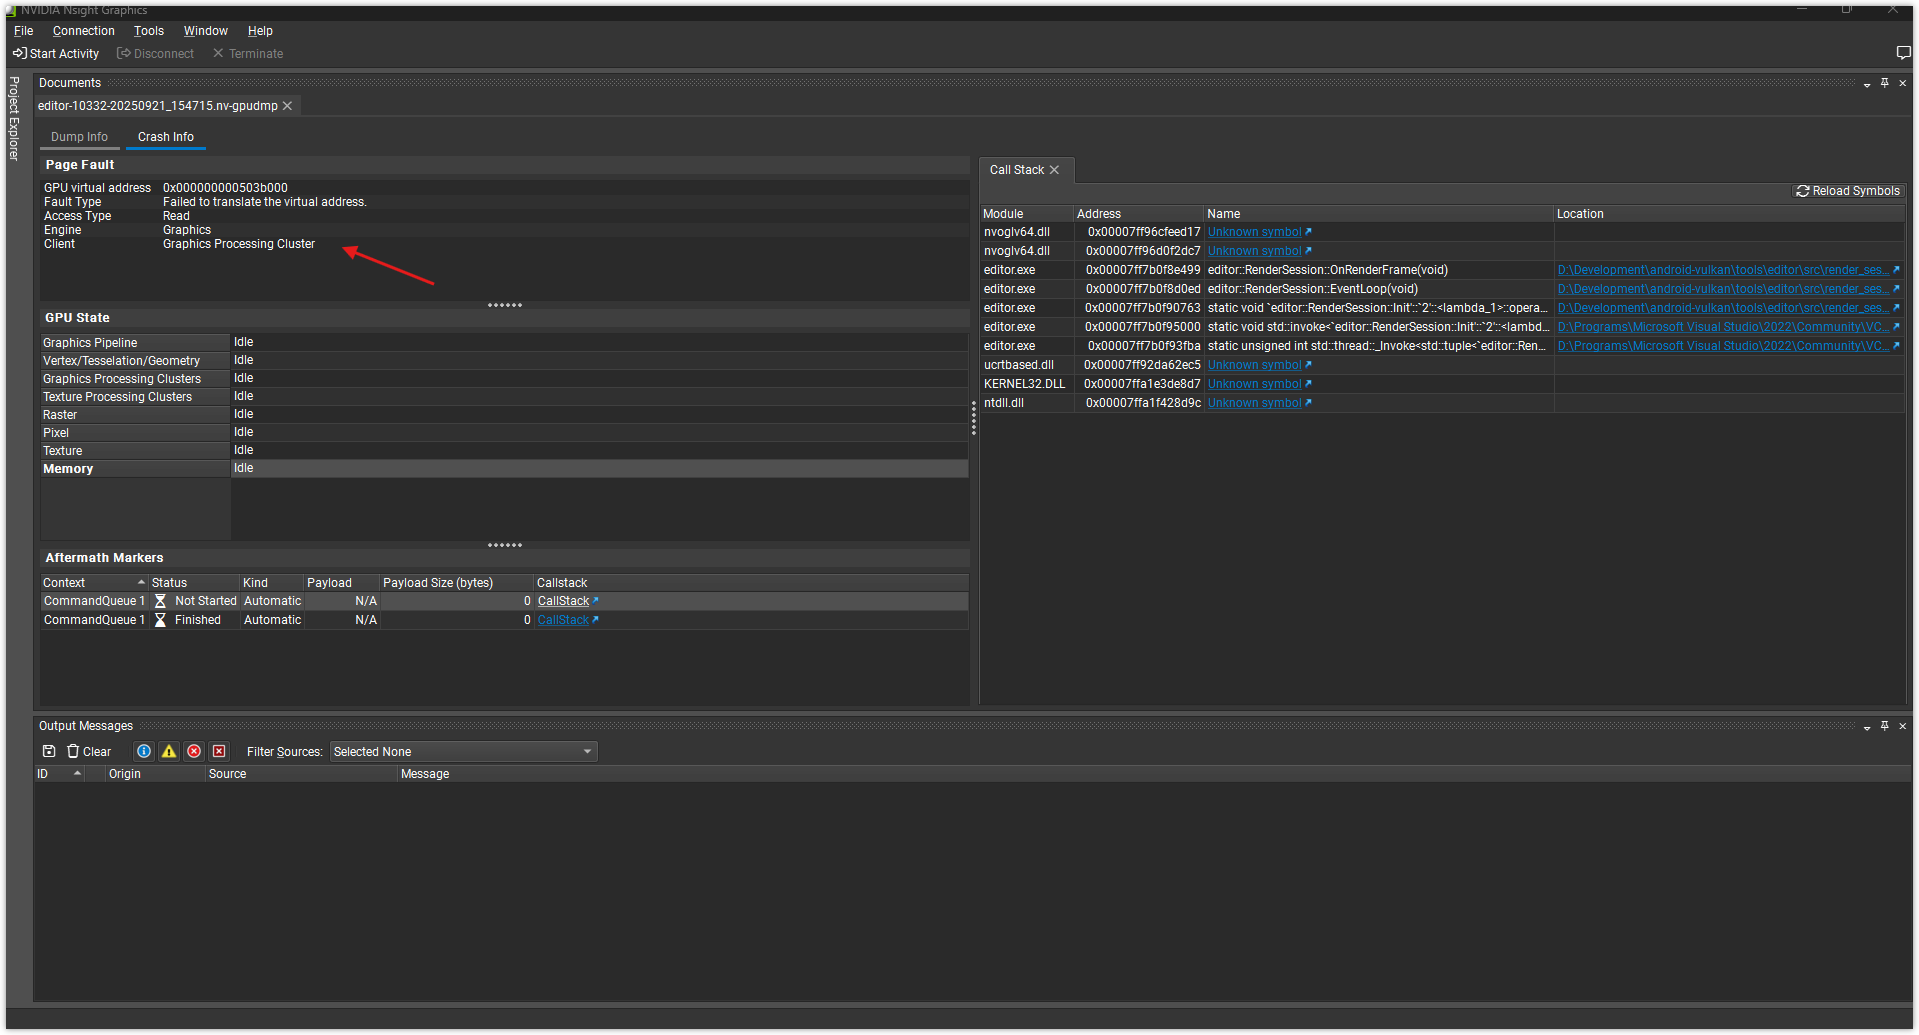
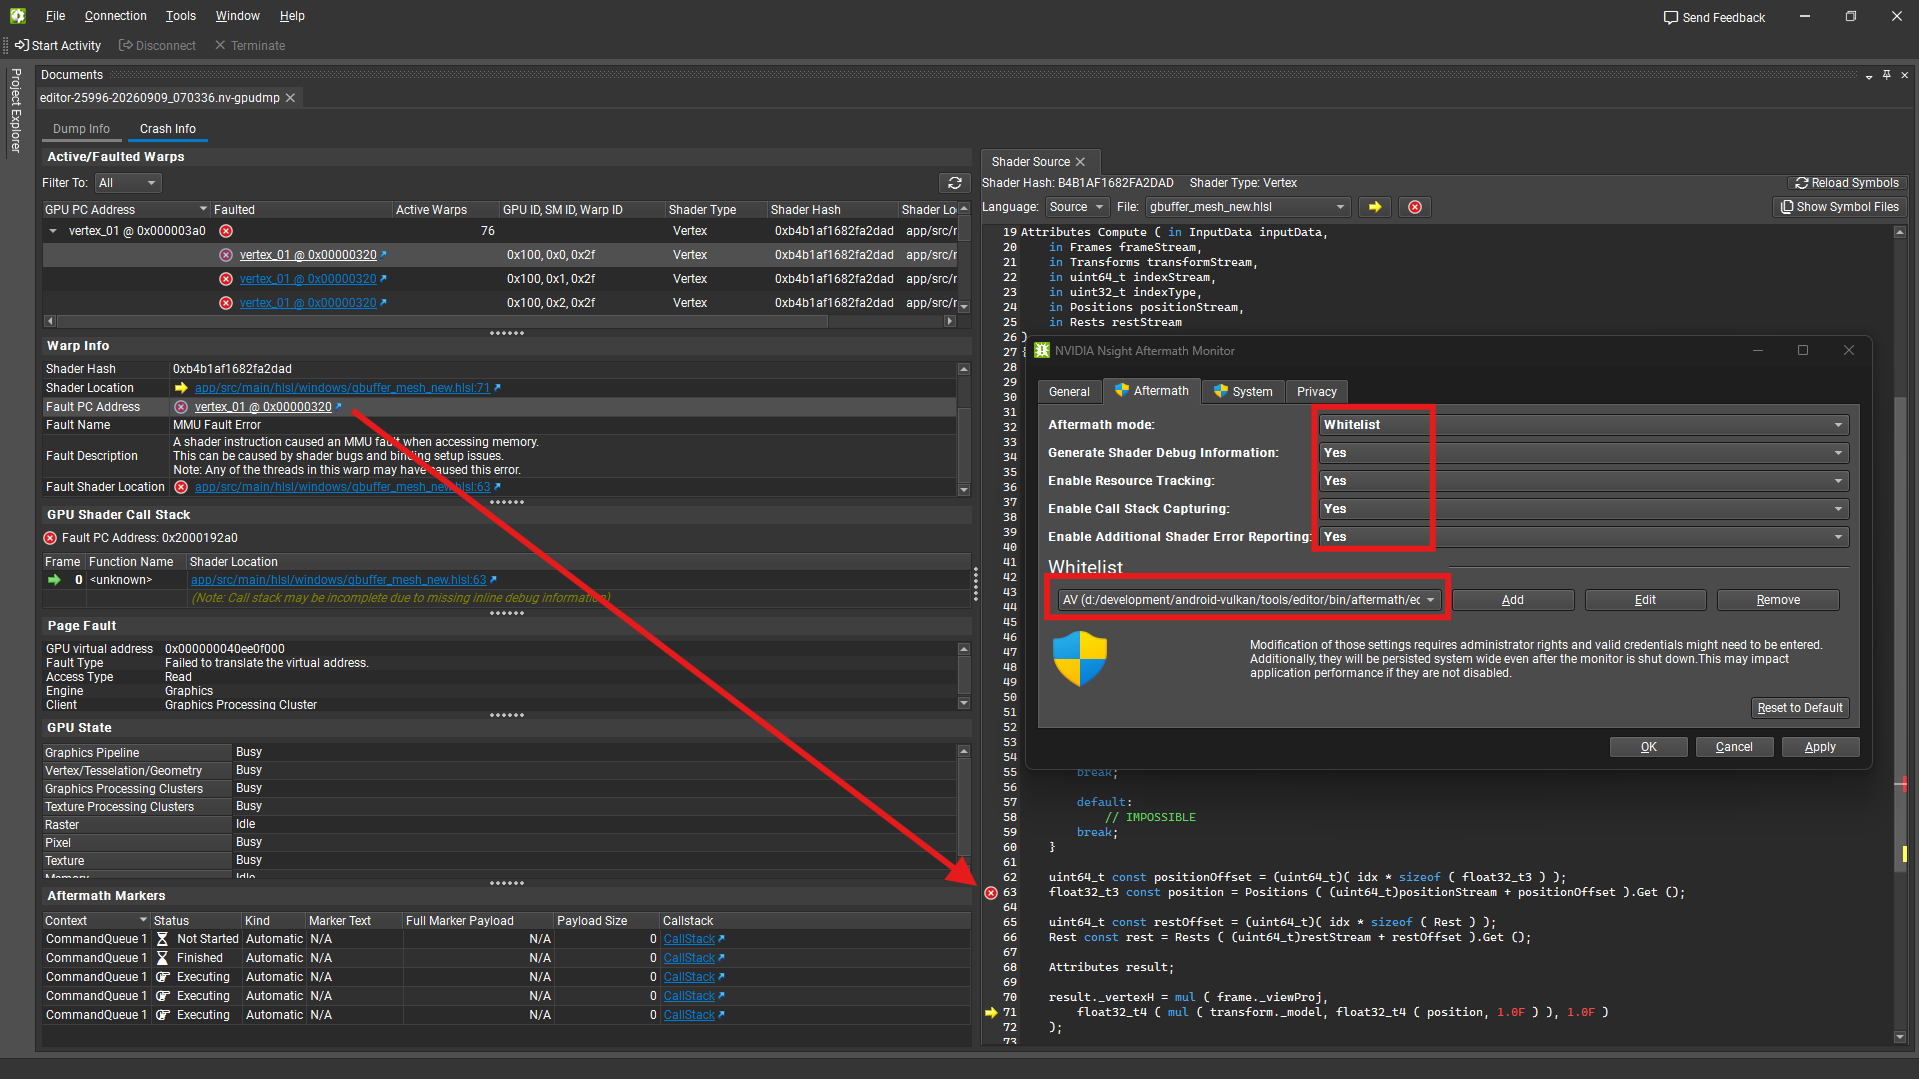
Documentation: - better image for Aftermath - DXC issue added
core:
- Windows: proper Aftermath extensions
- Windows: vk::BufferPointer transitioning (stage 1)

Tools:
- preprocess shader tool

Changed region(s): [[0.0, 0.0, 1.0, 1.0], [0.7994, 0.1855, 0.8301, 0.2164], [0.3382, 0.5874, 0.3689, 0.6184]]

diff --git a/app/src/main/cpp/sources/platform/windows/renderer.cpp b/app/src/main/cpp/sources/platform/windows/renderer.cpp
@@ -567,11 +567,11 @@ std::span<char const* const> Renderer::GetDeviceExtensions () noexcept
     constexpr static char const* const extensions[] =
     {
 
-#if defined ( AV_ENABLE_NSIGHT ) || defined ( AV_ENABLE_RENDERDOC )
+#if defined ( AV_ENABLE_NSIGHT ) || defined ( AV_ENABLE_AFTERMATH ) || defined ( AV_ENABLE_RENDERDOC )
 
         VK_KHR_SHADER_NON_SEMANTIC_INFO_EXTENSION_NAME,
 
-#endif // AV_ENABLE_NSIGHT || AV_ENABLE_RENDERDOC
+#endif // AV_ENABLE_NSIGHT || AV_ENABLE_AFTERMATH || AV_ENABLE_RENDERDOC
 
         VK_EXT_DESCRIPTOR_BUFFER_EXTENSION_NAME,
         VK_EXT_MUTABLE_DESCRIPTOR_TYPE_EXTENSION_NAME,
@@ -778,6 +778,11 @@ bool Renderer::CheckRequiredFeatures ( std::vector<std::string> const &deviceExt
 
         AV_BITWISE ( CheckFeature ( features.textureCompressionBC, "textureCompressionBC", _initLogs ) ) &
         AV_BITWISE ( CheckFeature ( features11.multiview, "multiview", _initLogs ) ) &
+
+        // 2026/09/10 It's needed because DXC bug:
+        // https://github.com/microsoft/DirectXShaderCompiler/issues/8895
+        AV_BITWISE ( CheckFeature ( features11.storagePushConstant16, "storagePushConstant16", _initLogs ) ) &
+
         AV_BITWISE ( CheckFeature ( features12.bufferDeviceAddress, "bufferDeviceAddress", _initLogs ) ) &
 
         AV_BITWISE (
@@ -947,7 +952,11 @@ VkPhysicalDeviceFeatures2 Renderer::GetRequiredPhysicalDeviceFeatures () noexcep
         .pNext = const_cast<VkPhysicalDeviceDescriptorBufferFeaturesEXT*> ( &descriptorBufferFeatures ),
         .storageBuffer16BitAccess = VK_FALSE,
         .uniformAndStorageBuffer16BitAccess = VK_FALSE,
-        .storagePushConstant16 = VK_FALSE,
+
+        // 2026/09/10 It's needed because DXC bug:
+        // https://github.com/microsoft/DirectXShaderCompiler/issues/8895
+        .storagePushConstant16 = VK_TRUE,
+
         .storageInputOutput16 = VK_FALSE,
         .multiview = VK_TRUE,
         .multiviewGeometryShader = VK_FALSE,

diff --git a/app/src/main/cpp/sources/platform/windows/pbr/opaque_with_id_program.cpp b/app/src/main/cpp/sources/platform/windows/pbr/opaque_with_id_program.cpp
@@ -17,8 +17,12 @@ constexpr size_t STAGE_COUNT = 2U;
 //----------------------------------------------------------------------------------------------------------------------
 
 OpaqueWithIDProgram::OpaqueWithIDProgram () noexcept:
-    GBufferProgram ( "shaders/windows/gbuffer_mesh_with_id.vs.spv",
-        "shaders/windows/opaque_with_id.ps.spv",
+    //GBufferProgram ( "shaders/windows/gbuffer_mesh_with_id.vs.spv",
+    //    "shaders/windows/opaque_with_id.ps.spv",
+    //    sizeof ( PushConstants )
+    //)
+    GBufferProgram ( "shaders/windows/gbuffer_mesh_with_id_new.vs.spv",
+        "shaders/windows/opaque_with_id_new.ps.spv",
         sizeof ( PushConstants )
     )
 {

diff --git a/app/src/main/cpp/sources/platform/windows/pbr/ui_pass.cpp b/app/src/main/cpp/sources/platform/windows/pbr/ui_pass.cpp
@@ -630,10 +630,10 @@ bool UIPass::Execute ( VkCommandBuffer commandBuffer, size_t commandBufferIndex 
 
     _program.Bind ( commandBuffer );
 
-    _pushConstants._bdaStream0 = _uiVertices.GetStream0Address () +
+    _pushConstants._uiVertices0 = _uiVertices.GetStream0Address () +
         static_cast<VkDeviceAddress> ( _readVertexIndex * sizeof ( UIVertexStream0 ) );
 
-    _pushConstants._bdaStream1 = _uiVertices.GetStream1Address () +
+    _pushConstants._uiVertices1 = _uiVertices.GetStream1Address () +
         static_cast<VkDeviceAddress> ( _readVertexIndex * sizeof ( UIVertexStream1 ) );
 
     _program.SetPushConstants ( commandBuffer, &_pushConstants );

diff --git a/app/src/main/cpp/sources/platform/windows/pbr/opaque_program.cpp b/app/src/main/cpp/sources/platform/windows/pbr/opaque_program.cpp
@@ -17,7 +17,8 @@ constexpr size_t STAGE_COUNT = 2U;
 //----------------------------------------------------------------------------------------------------------------------
 
 OpaqueProgram::OpaqueProgram () noexcept:
-    GBufferProgram ( "shaders/windows/gbuffer_mesh.vs.spv", "shaders/windows/opaque.ps.spv", sizeof ( PushConstants ) )
+    //GBufferProgram ( "shaders/windows/gbuffer_mesh.vs.spv", "shaders/windows/opaque.ps.spv", sizeof ( PushConstants ) )
+    GBufferProgram ( "shaders/windows/gbuffer_mesh_new.vs.spv", "shaders/windows/opaque_new.ps.spv", sizeof ( PushConstants ) )
 {
     // NOTHING
 }

diff --git a/app/src/main/cpp/include/platform/windows/pbr/ui_program.hpp b/app/src/main/cpp/include/platform/windows/pbr/ui_program.hpp
@@ -17,8 +17,8 @@ class UIProgram final : public GraphicsProgram
 
         struct PushConstants final
         {
-            VkDeviceAddress                 _bdaStream0;
-            VkDeviceAddress                 _bdaStream1;
+            VkDeviceAddress                 _uiVertices0;
+            VkDeviceAddress                 _uiVertices1;
             GXVec2                          _rotateScaleRow0;
             GXVec2                          _rotateScaleRow1;
             GXVec2                          _offset;

diff --git a/app/src/main/cpp/sources/platform/windows/pbr/ui_program.cpp b/app/src/main/cpp/sources/platform/windows/pbr/ui_program.cpp
@@ -10,7 +10,8 @@ namespace pbr {
 
 namespace {
 
-constexpr char const VERTEX_SHADER[] = "shaders/windows/ui.vs.spv";
+//constexpr char const VERTEX_SHADER[] = "shaders/windows/ui.vs.spv";
+constexpr char const VERTEX_SHADER[] = "shaders/windows/ui_new.vs.spv";
 constexpr char const CUSTOM_BRIGHTNESS_FRAGMENT_SHADER[] = "shaders/windows/ui_custom_brightness.ps.spv";
 constexpr char const DEFAULT_BRIGHTNESS_FRAGMENT_SHADER[] = "shaders/windows/ui_default_brightness.ps.spv";
 

diff --git a/app/src/main/cpp/sources/platform/windows/pbr/outline_mask_program.cpp b/app/src/main/cpp/sources/platform/windows/pbr/outline_mask_program.cpp
@@ -10,7 +10,8 @@ namespace pbr {
 
 namespace {
 
-constexpr char const VERTEX_SHADER[] = "shaders/windows/outline_mask.vs.spv";
+//constexpr char const VERTEX_SHADER[] = "shaders/windows/outline_mask.vs.spv";
+constexpr char const VERTEX_SHADER[] = "shaders/windows/outline_mask_new.vs.spv";
 constexpr char const FRAGMENT_SHADER[] = "shaders/windows/outline_mask.ps.spv";
 
 constexpr size_t COLOR_RENDER_TARGET_COUNT = 1U;

diff --git a/docs/shader-compilation.md b/docs/shader-compilation.md
@@ -175,6 +175,8 @@ Problem with `mad` intrinsic | [#5608](https://github.com/microsoft/DirectXShade
 [SPIR-V] Compute shader output into float16_t RWTexture2D | [#7595](https://github.com/microsoft/DirectXShaderCompiler/issues/7595) | 🛡 Not an issue
 [SPIR-V] Incorrect ignoring `globallycoherent` with buffer device address approach | [#7661](https://github.com/microsoft/DirectXShaderCompiler/issues/7661) | ⚠ Submitted
 [SPIR-V] Incorrect ignoring `globallycoherent` with `ResourceDescriptorHeap` approach | [#7740](https://github.com/microsoft/DirectXShaderCompiler/issues/7740) | ⚠ Submitted
-_Visual Studio 2026_ support | [#7918](https://github.com/microsoft/DirectXShaderCompiler/issues/7918) | ⚠ Submitted
+_Visual Studio 2026_ support | [#7918](https://github.com/microsoft/DirectXShaderCompiler/issues/7918) | ✔ Fixed
+Shader with source info broken | [#8543](https://github.com/microsoft/DirectXShaderCompiler/issues/8543) | ⚠ Submitted
+[SPIR-V] Requesting useless `OpCapability StoragePushConstant16` when using `vk::BufferPointer` | [#8895](https://github.com/microsoft/DirectXShaderCompiler/issues/8895) | ⚠ Submitted
 
 [↬ table of content ⇧](#table-of-content)

diff --git a/docs/editor.md b/docs/editor.md
@@ -142,7 +142,7 @@ Now you will be able to use [_NVIDIA Aftermath_](https://developer.nvidia.com/ns
 
 <img src="./images/editor-aftermath.png">
 
-ℹ Pay attention that [_NVIDIA Nsight Graphics_](https://developer.nvidia.com/nsight-graphics) already contains [_NVIDIA Aftermath_](https://developer.nvidia.com/nsight-aftermath) components. So all you need is to activate [_NVIDIA Aftermath_](https://developer.nvidia.com/nsight-aftermath) tool and wait for application crash.
+ℹ Pay attention that [_NVIDIA Nsight Graphics_](https://developer.nvidia.com/nsight-graphics) already contains [_NVIDIA Aftermath_](https://developer.nvidia.com/nsight-aftermath) components. So all you need is to activate [_NVIDIA Aftermath Monitor_](https://developer.nvidia.com/nsight-aftermath) tool and wait for application crash.
 
 [↬ table of content ⇧](#table-of-content)
 
